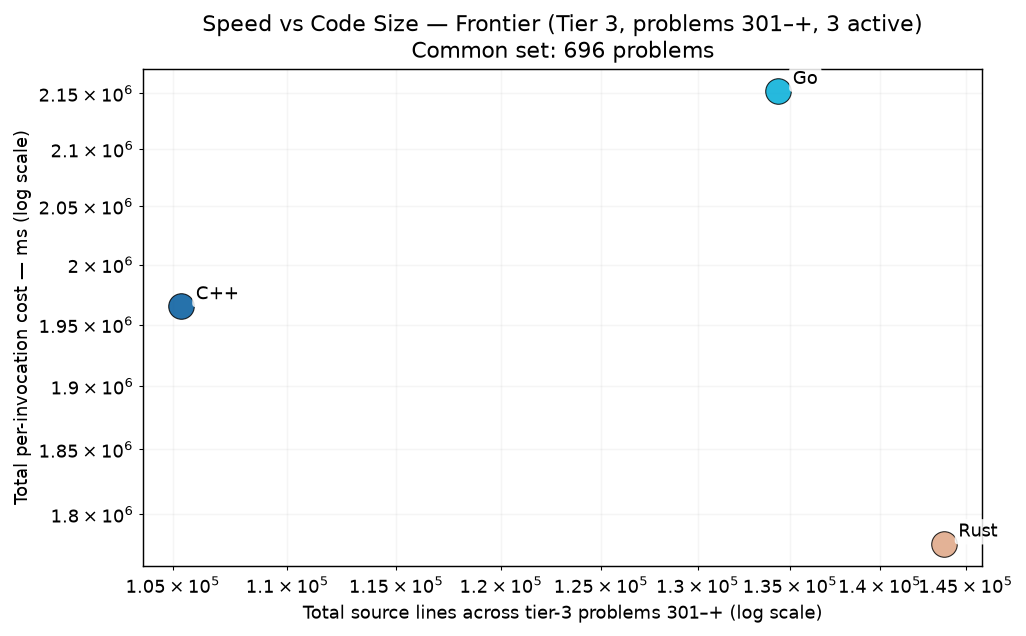
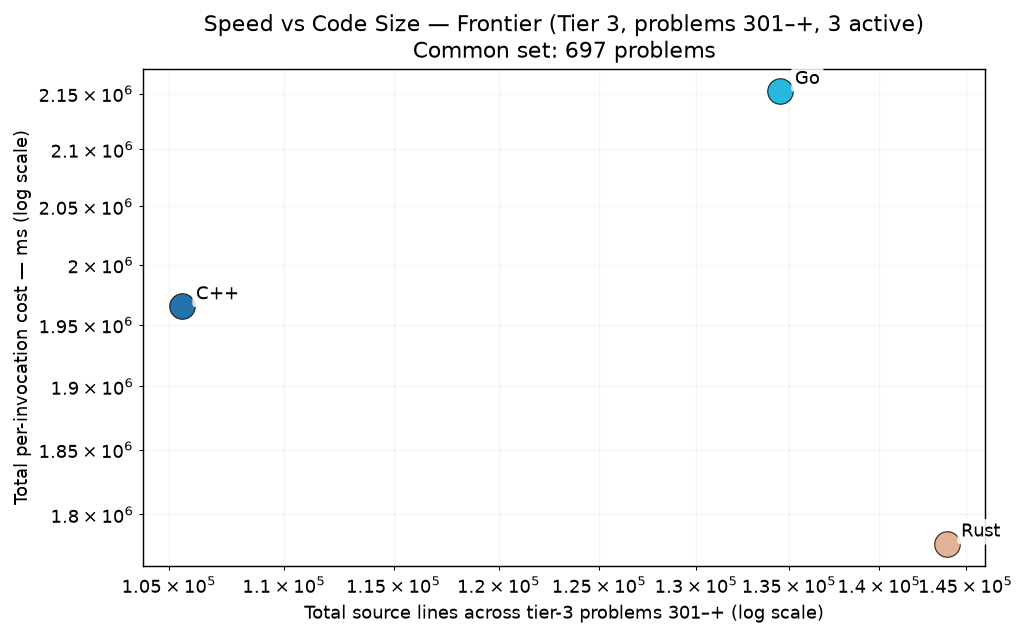
cpp p0976

diff --git a/RESULTS.md b/RESULTS.md
@@ -1,6 +1,6 @@
 # Project Euler — Cross-Language Benchmarks
 
-> **Scope: 4521 in-scope cells across 1007 problems × tiered languages — 4496 measured (99.4% coverage).**
+> **Scope: 4521 in-scope cells across 1007 problems × tiered languages — 4497 measured (99.5% coverage).**
 > The cross-language ranking below is computed over the **200-problem common set** (problems in 1-200 where every language has a passing measurement) — the apples-to-apples Foundation comparison surface.  Per-tier rankings and coverage detail appear further below.
 > Growing carefully — each new problem and language is audited for state-leak
 > safety, verified for answer correctness, and added only when it cleanly fits the
@@ -70,15 +70,15 @@ Same scatter as the Foundation chart, restricted to the tier-2 active languages 
 
 The frontier verification trio — C++, Go, Rust — on problems above 300. 3-way cross-language agreement is the verification protocol (strictly stronger than 2-way; see JOURNEY.md "Tier Reframing" episode for the p254 lesson that motivated it). Python and Zig are explicitly out of this tier — python's wall cost makes it impractical at level 5+, and zig's role caps at Tier 2.
 
-### Per-Invocation Cost (Common Set, 696 of ≤707 problems in scope)
+### Per-Invocation Cost (Common Set, 697 of ≤707 problems in scope)
 
 ![Per-Invocation Cost — Tier 3](charts/per_iter_total_tier3.png)
 
-| Rank | Language | Geomean (696-problem common set) | Total (sum) | Lines of code | vs Fastest |
+| Rank | Language | Geomean (697-problem common set) | Total (sum) | Lines of code | vs Fastest |
 |------|----------|--------------------:|------------:|--------------:|-----------:|
-| 1 | **Rust** | 75.60 ms | 1777.66 s | 143,718 | 1.00× |
-| 2 | **C++** | 80.42 ms | 1964.93 s | 105,360 | 1.06× |
-| 3 | **Go** | 88.64 ms | 2151.86 s | 134,350 | 1.17× |
+| 1 | **Rust** | 75.73 ms | 1777.90 s | 143,895 | 1.00× |
+| 2 | **C++** | 80.54 ms | 1965.17 s | 105,532 | 1.06× |
+| 3 | **Go** | 88.79 ms | 2152.14 s | 134,522 | 1.17× |
 
 ### Speed vs Code Size
 
@@ -264,7 +264,7 @@ table never silently mixes versions (METHODOLOGY.md §4).  Current state of the
 |----------|-----------|------:|---------------|
 | **ARM64** | `Apple clang version 21.0.0 (clang-2100.1.1.101)` | 200 | 2026-07-30 |
 | **C** | `Apple clang version 21.0.0 (clang-2100.1.1.101)` | 200 | 2026-07-30 |
-| **C++** | `Apple clang version 21.0.0 (clang-2100.1.1.101)` | 996 | 2026-09-08 |
+| **C++** | `Apple clang version 21.0.0 (clang-2100.1.1.101)` | 997 | 2026-09-09 |
 | **C#** | `10.0.101` | 200 | 2026-07-30 |
 | **Go** | `go version go1.26.5 darwin/arm64` | 998 | 2026-09-09 |
 | **Java** | `openjdk version "21.0.2" 2024-01-16 LTS` | 200 | 2026-07-30 |

diff --git a/per_problem/per_problem_0901-1000.md b/per_problem/per_problem_0901-1000.md
@@ -83,7 +83,7 @@ in tier-1 display order (native → managed → interpreted).
 | **p0973** | 34.73 ms | 885.6 µs | 2.17 ms |
 | **p0974** | 4.56 ms | 223.6 µs | 17.01 ms |
 | **p0975** | 1.39 s | 2.03 s | 965.06 ms |
-| **p0976** | — | 239.30 ms | 279.49 ms |
+| **p0976** | 238.31 ms | 239.30 ms | 279.49 ms |
 | **p0977** | 341.28 ms | 370.54 ms | 400.40 ms |
 | **p0978** | <1 µs~ | <1 µs~ | 2.8 µs~ |
 | **p0979** | 12.29 ms | 7.04 ms | 28.55 ms |
